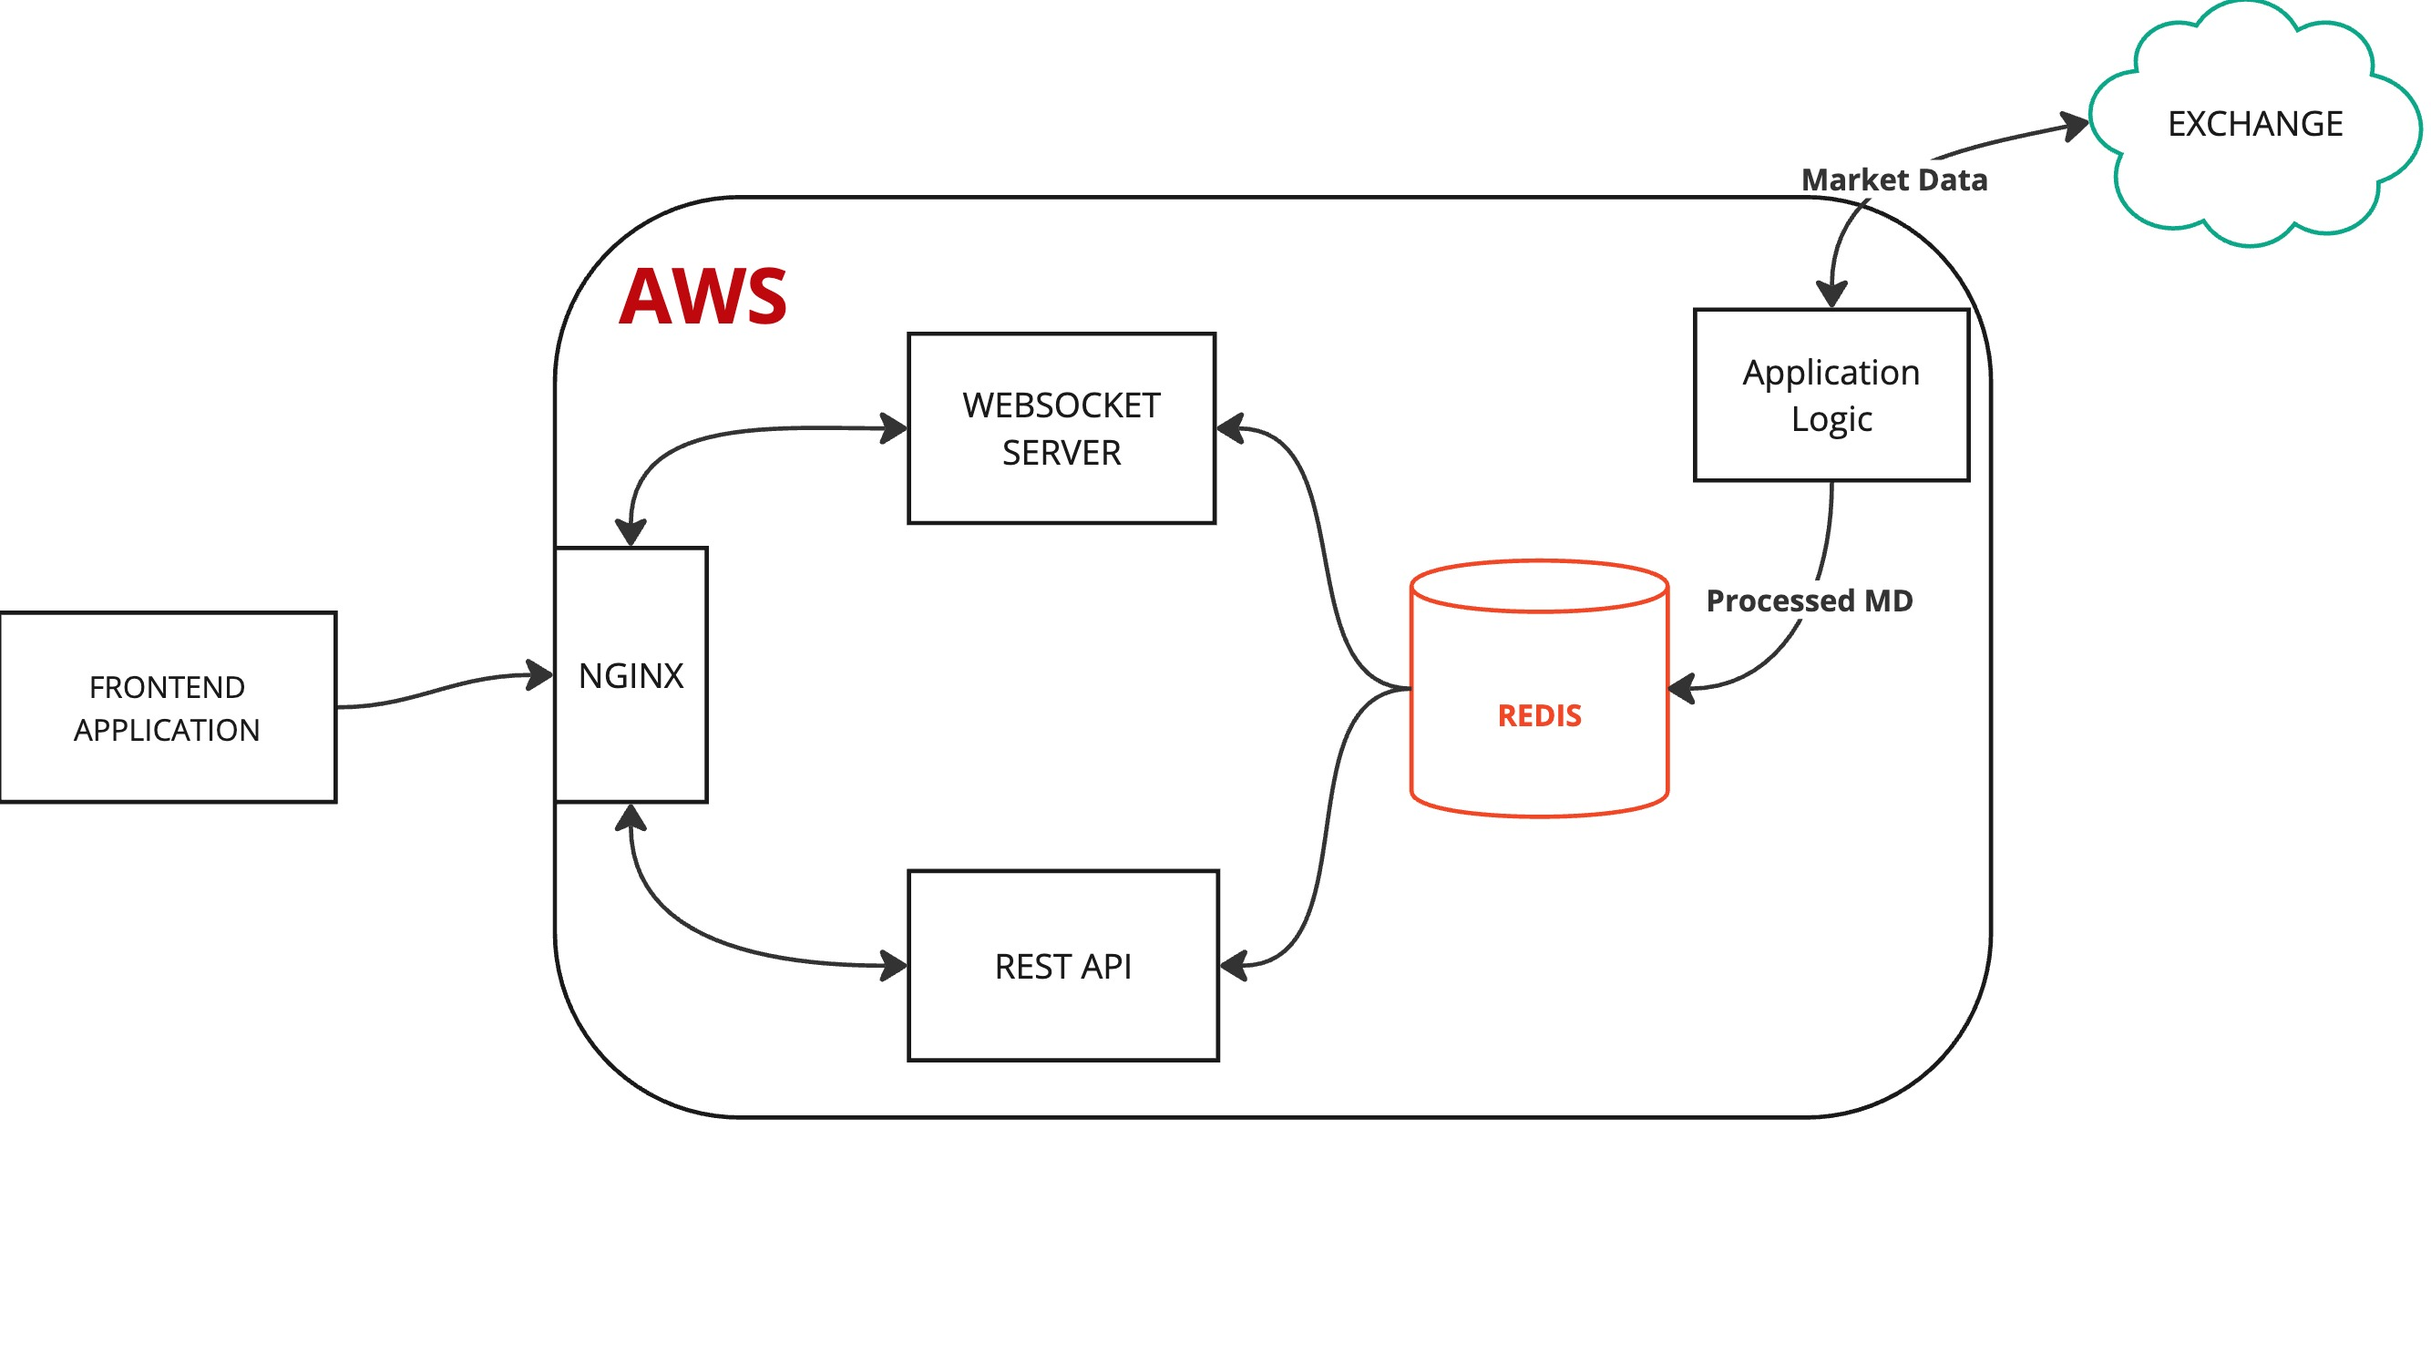
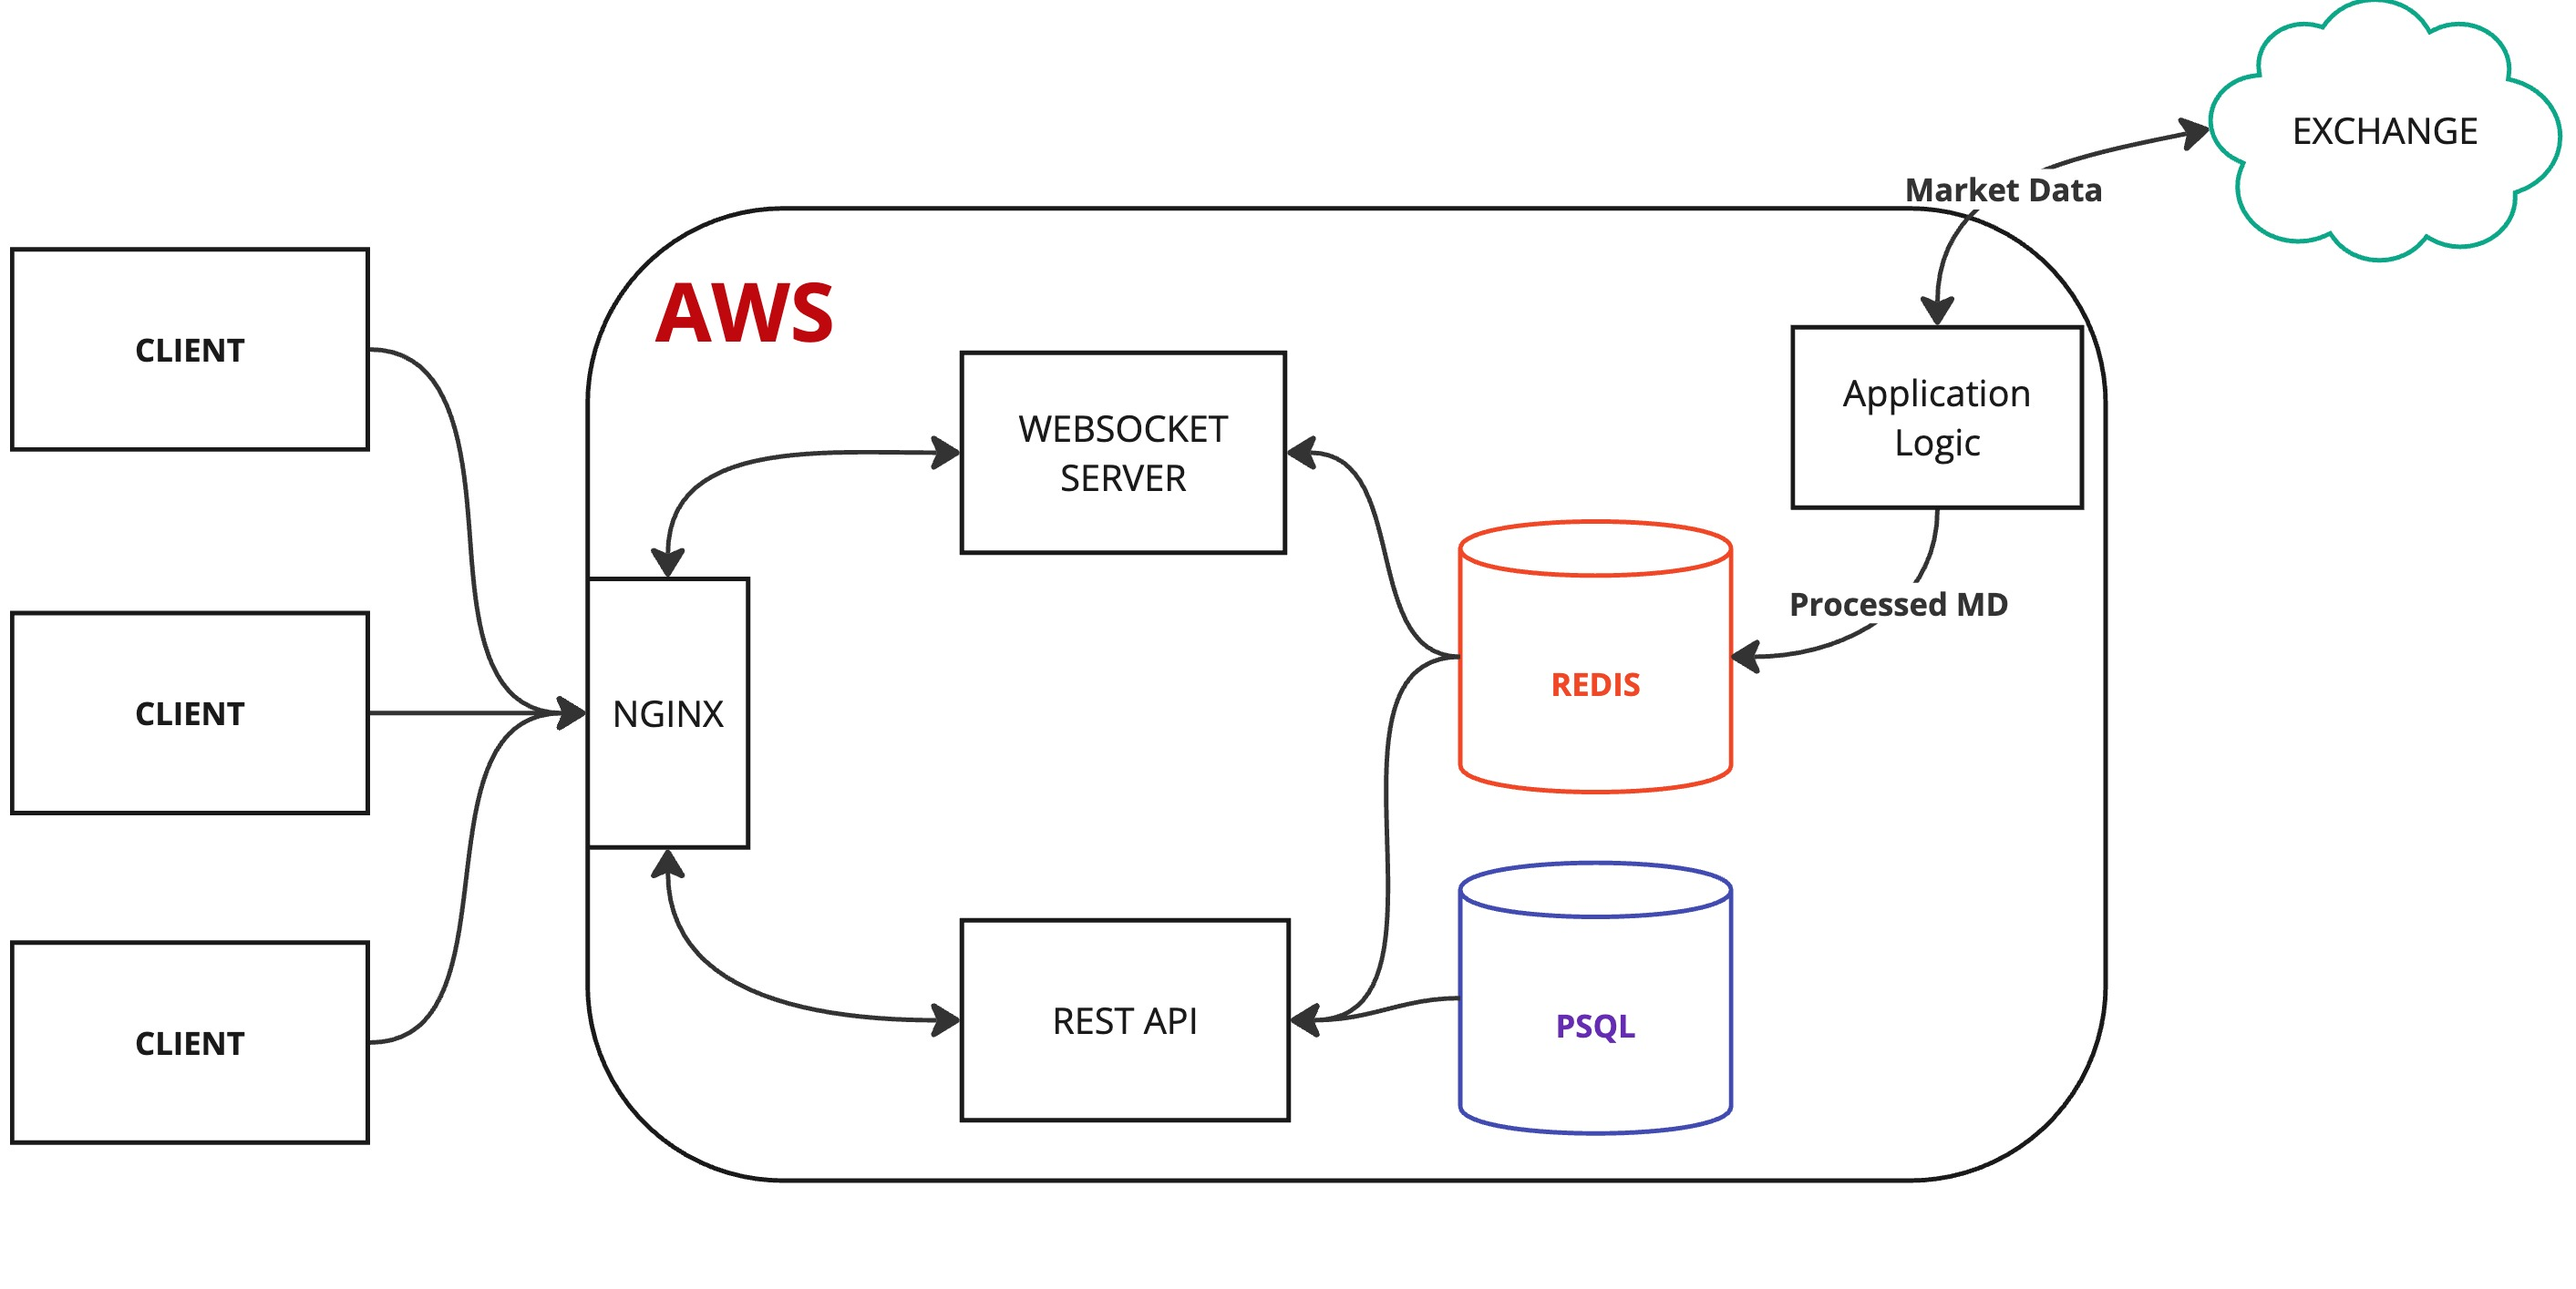
term structure updates

diff --git a/content/posts/vol_term_structure/index.md b/content/posts/vol_term_structure/index.md
@@ -7,16 +7,18 @@ draft = false
 [This](https://todd-ford.com/app/vol-term-structure) is a simple application to display the forward implied at-the-money
 volatility term structure for Bitcoin options in real time.
 
-## Project Overview
+## Methodology
 
 "At-the-money" in this case is defined as the option with the strike price nearest to the underlying forward price. As the forward price rarely falls precisely on an exact strike, a linear interpolation is made between the volatilities of the two options with the nearest strikes (above and below) the forward. For option tenors without a corresponding listed forward, a similiar linear interpolation is made between the prices of the forwards nearest to the option tenor.
 
 ## Architecture
 
-Market data is obtained through public websocket APIs of the leading cryptocurrency derivatives exchange - Deribit. After performing the algorthim to determine the ATM volatilites for each tenor, data is pushed to a Redis instance using a publish/subscribe pattern. A Websocket server accepts connections from clients and simultaneously subscribes to incoming data published to Redis, acting as a multiplexer and distributing the incoming data to client connections.
+A diagram of the application architecture is pictured below. The primary application receives market data via websocket from a leading derivatives exhange. That MD is procecessed and published to Redis using Redis's [publish/subscibe paradigm](https://redis.io/docs/latest/develop/interact/pubsub/).
+
+Clients connect to the server and Nginx routes traffic to a websocket server and a REST API (built with [FastAPI](https://fastapi.tiangolo.com/)) as appropriate. The REST API is responsible for sending back static configuration data contained in both Redis and a PostgreSQL database. The websocket server subscribes to the processed market data being published to Redis and handles incoming client connections, broadcasting the processed MD to client subscribers.
 
 {{< figure src="architecture.jpg" alt="Application Architresecture" caption="Application Architecture" >}}
 
-4. **Visualization**:
-   - 2D slice views for individual expiry dates
-   - Real-time updates as market data changes
+## Visualization:
+The visualization is a simple Typescript/React application leveraging [https://developer.mozilla.org/en-US/docs/Web/API/WebSockets_API](WebSockets) and [Recharts](https://recharts.org/en-US/)
+
